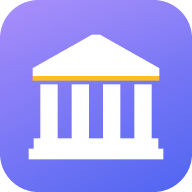
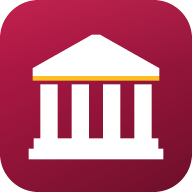
Quorum: palette istituzionale (bordeaux/oro) + wrapper iOS per TestFlight
- Tema colore consono alla politica: primario bordeaux/cremisi (banchi
  parlamentari) con accenti oro su fondo navy scuro; titolo, pulsanti,
  bagliore di sfondo, meta/manifest e icone (svg + png) aggiornati.
- Nuovo wrapper iOS nativo (Capacitor) in ios-app/ per distribuire la PWA
  su TestFlight: config, script di sync della web app, icona 1024px e guida
  passo-passo (Xcode Archive -> App Store Connect -> TestFlight).

Claude-Session: https://claude.ai/code/session_01TiX5hFhkob4XyaCu4zmNuv

diff --git a/docs/quorum/index.html b/docs/quorum/index.html
@@ -4,7 +4,7 @@
 <meta charset="UTF-8">
 <meta name="viewport" content="width=device-width, initial-scale=1.0, viewport-fit=cover, maximum-scale=1.0, user-scalable=no">
 <title>Quorum · Il gioco della politica</title>
-<meta name="theme-color" content="#0b1020">
+<meta name="theme-color" content="#0c0f1c">
 <meta name="apple-mobile-web-app-capable" content="yes">
 <meta name="apple-mobile-web-app-status-bar-style" content="black-translucent">
 <meta name="apple-mobile-web-app-title" content="Quorum">
@@ -13,9 +13,9 @@
 <link rel="icon" type="image/svg+xml" href="icon.svg">
 <style>
   :root{
-    --bg:#0b1020; --bg2:#0f1630; --card:#151c38; --card2:#1c244a; --line:#2a3466;
-    --txt:#eef1ff; --muted:#98a0cf; --accent:#7c8cff; --accent2:#a78bfa;
-    --green:#22c55e; --red:#f43f5e; --amber:#f59e0b; --cyan:#22d3ee; --gold:#fbbf24;
+    --bg:#0c0f1c; --bg2:#12172a; --card:#171d33; --card2:#20273f; --line:#2f3757;
+    --txt:#f2f1ea; --muted:#9aa1bd; --accent:#b3123f; --accent2:#d4af37;
+    --green:#22c55e; --red:#f43f5e; --amber:#f59e0b; --cyan:#22d3ee; --gold:#e6b422;
     --shadow:0 12px 40px rgba(0,0,0,.5);
     --safe-b:env(safe-area-inset-bottom);
     --safe-t:env(safe-area-inset-top);
@@ -24,7 +24,7 @@
   html,body{margin:0;padding:0;height:100%;overscroll-behavior:none}
   body{
     font-family:-apple-system,BlinkMacSystemFont,"Segoe UI",Roboto,Helvetica,Arial,sans-serif;
-    background:radial-gradient(1200px 600px at 50% -10%,#1a2350 0%,var(--bg) 55%) fixed;
+    background:radial-gradient(1200px 600px at 50% -12%,#3a1230 0%,var(--bg) 55%) fixed;
     color:var(--txt); line-height:1.4; -webkit-font-smoothing:antialiased;
     user-select:none;
   }
@@ -32,8 +32,8 @@
   button{font-family:inherit;cursor:pointer;border:none;background:none;color:inherit;font-size:16px}
   .btn{
     display:inline-flex;align-items:center;justify-content:center;gap:8px;
-    background:linear-gradient(180deg,var(--accent),#5a6bef);color:#fff;font-weight:700;
-    padding:14px 18px;border-radius:14px;box-shadow:0 6px 18px rgba(90,107,239,.35);
+    background:linear-gradient(180deg,#c21847,#8a0f30);color:#fff;font-weight:700;
+    padding:14px 18px;border-radius:14px;box-shadow:0 6px 18px rgba(179,18,63,.38);
     transition:transform .08s ease, filter .15s;width:100%;
   }
   .btn:active{transform:scale(.97)}
@@ -49,8 +49,8 @@
   /* ---------- HOME ---------- */
   .brand{text-align:center;margin:24px 0 6px}
   .logo{font-size:64px;line-height:1}
-  .brand h1{font-size:40px;margin:8px 0 2px;letter-spacing:1px;
-    background:linear-gradient(90deg,var(--accent2),var(--cyan));-webkit-background-clip:text;background-clip:text;color:transparent}
+  .brand h1{font-size:40px;margin:8px 0 2px;letter-spacing:2px;
+    background:linear-gradient(90deg,#f0d97a,#c9a233);-webkit-background-clip:text;background-clip:text;color:transparent}
   .brand p{color:var(--muted);margin:0;font-size:14px}
   .home-actions{margin-top:28px;display:flex;flex-direction:column;gap:12px}
   .home-actions .btn{padding:18px}
@@ -74,7 +74,7 @@
   .prow input{flex:1;background:var(--bg2);border:1px solid var(--line);color:var(--txt);border-radius:10px;padding:10px;font-size:15px;min-width:0}
   .toggle{display:flex;background:var(--bg2);border:1px solid var(--line);border-radius:10px;overflow:hidden}
   .toggle button{padding:8px 10px;font-size:13px;color:var(--muted);font-weight:700}
-  .toggle button.on{background:var(--accent2);color:#fff}
+  .toggle button.on{background:var(--accent);color:#fff}
   .toggle button.on.cpu{background:var(--amber)}
   .stepper{display:flex;align-items:center;gap:14px;justify-content:center}
   .stepper button{width:44px;height:44px;border-radius:12px;background:var(--card2);border:1px solid var(--line);font-size:24px;font-weight:700}

diff --git a/ios-app/README.md b/ios-app/README.md
@@ -1,0 +1,72 @@
+# 📱 Quorum — wrapper iOS per TestFlight
+
+Questa cartella impacchetta la web app `docs/quorum` dentro un'app **iOS nativa**
+(via [Capacitor](https://capacitorjs.com)) così puoi caricarla su **TestFlight**.
+
+> ℹ **Perché serve questo?** Una PWA (app web) **non** si può caricare direttamente
+> su TestFlight: TestFlight distribuisce solo app native firmate (`.ipa`) tramite
+> App Store Connect. Questo wrapper crea l'app nativa che al suo interno mostra il gioco.
+
+## Cosa ti serve (una volta sola)
+- Un **Mac** con **Xcode** installato.
+- **Node.js** (18+).
+- Un account **Apple Developer** a pagamento (99 $/anno) — necessario per TestFlight.
+- Il tuo **Team ID** e un **Bundle Identifier** (di default: `com.francimanci.quorum`).
+
+## Passi (dal Mac, dentro `ios-app/`)
+
+```bash
+cd ios-app
+
+# 1) installa le dipendenze
+npm install
+
+# 2) copia la web app in www/ e crea il progetto iOS
+npm run add-ios          # = sync-web + npx cap add ios
+
+# 3) (opzionale ma consigliato) genera le icone dell'app dai file in resources/
+npm run icons            # richiede resources/icon.png (già incluso, 1024x1024)
+
+# 4) sincronizza e apri in Xcode
+npm run sync
+npm run open
+```
+
+## In Xcode
+1. Seleziona il target **App** → tab **Signing & Capabilities**:
+   - spunta **Automatically manage signing**
+   - scegli il tuo **Team**
+   - imposta il **Bundle Identifier** (deve essere unico su App Store Connect)
+2. In **General** imposta **Version** (es. `1.0`) e **Build** (es. `1`).
+3. In alto scegli come destinazione **Any iOS Device (arm64)**.
+4. Menu **Product → Archive**.
+5. Ad archivio pronto: **Distribute App → App Store Connect → Upload**.
+
+## Su App Store Connect
+1. Crea una nuova **App** con lo stesso Bundle ID (se non esiste già).
+2. Attendi che la build finisca l'**elaborazione** (qualche minuto).
+3. Vai in **TestFlight**, seleziona la build, compila le note e (per test interni)
+   aggiungi te stesso come tester.
+4. Apri l'app **TestFlight** sul tuo iPhone e installa Quorum. 🎉
+
+## Aggiornare l'app dopo modifiche al gioco
+Le modifiche vanno sempre fatte in `docs/quorum/` (fonte unica). Poi:
+
+```bash
+npm run sync     # ricopia www/ e aggiorna il progetto iOS
+npm run open     # in Xcode: alza il numero Build, Archive, Upload
+```
+
+## Note tecniche
+- La fonte del gioco è **una sola**: `docs/quorum/`. La cartella `www/` è generata
+  dallo script `scripts/sync-web.sh` e **non** è versionata (`.gitignore`).
+- Il `service worker` viene rimosso nel bundle nativo: non serve, perché gli asset
+  sono già inclusi nell'app e il gioco funziona **offline** di suo.
+- Orientamento **verticale**, colore di sfondo `#0c0f1c` (coerente con l'app).
+- `localStorage` (salvataggio partita) funziona regolarmente dentro WKWebView.
+
+## Alternativa senza riga di comando
+In alternativa a Capacitor puoi usare **[PWABuilder](https://www.pwabuilder.com)**:
+inserisci l'URL pubblico della PWA (una volta attivo GitHub Pages, es.
+`https://<utente>.github.io/indovina/quorum/`), scarica il pacchetto iOS e segui
+le stesse istruzioni di firma/upload in Xcode. Serve comunque un Mac per l'upload.

diff --git a/docs/quorum/README.md b/docs/quorum/README.md
@@ -25,3 +25,8 @@ aggiungila alla schermata Home per installarla come app.
 - `icon.svg`, `icon-192/512/180.png` — icone app.
 
 Nessun backend richiesto: tutto gira sul dispositivo, salvataggio automatico via `localStorage`.
+
+## Portarla su TestFlight (iOS)
+La app è una PWA e non si carica direttamente su TestFlight. Nella cartella
+[`../../ios-app/`](../../ios-app/README.md) trovi un wrapper iOS (Capacitor) pronto
+da compilare su Mac + Xcode per distribuirla via TestFlight.
